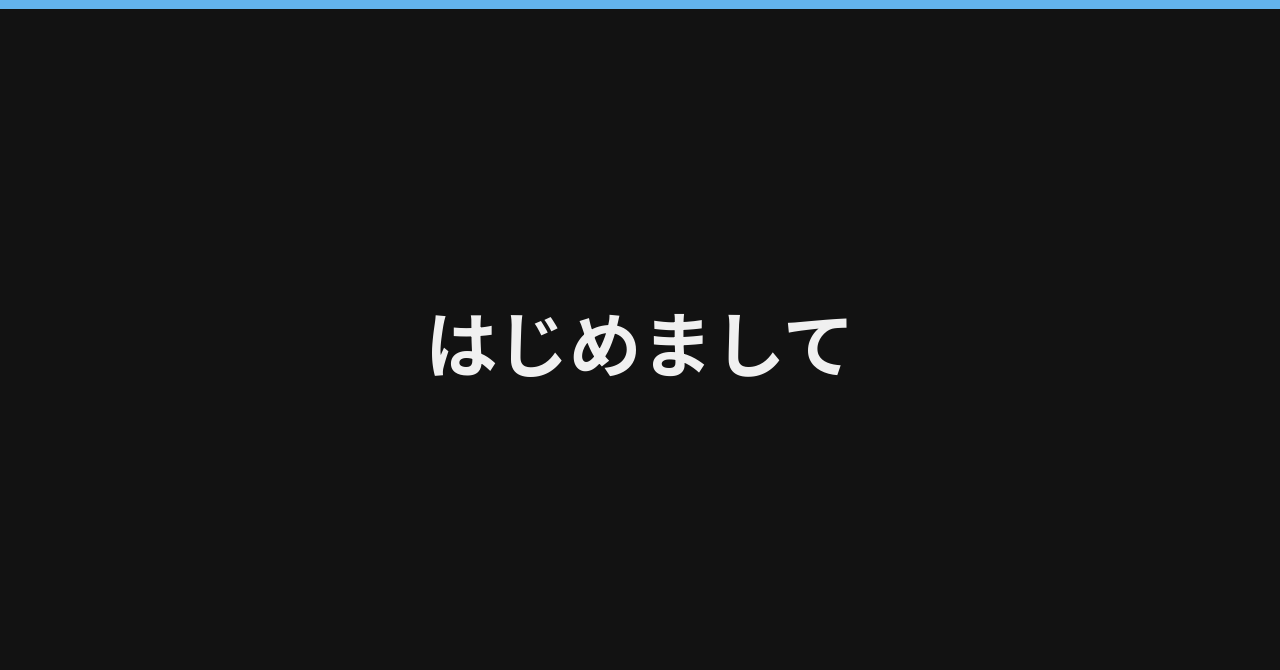
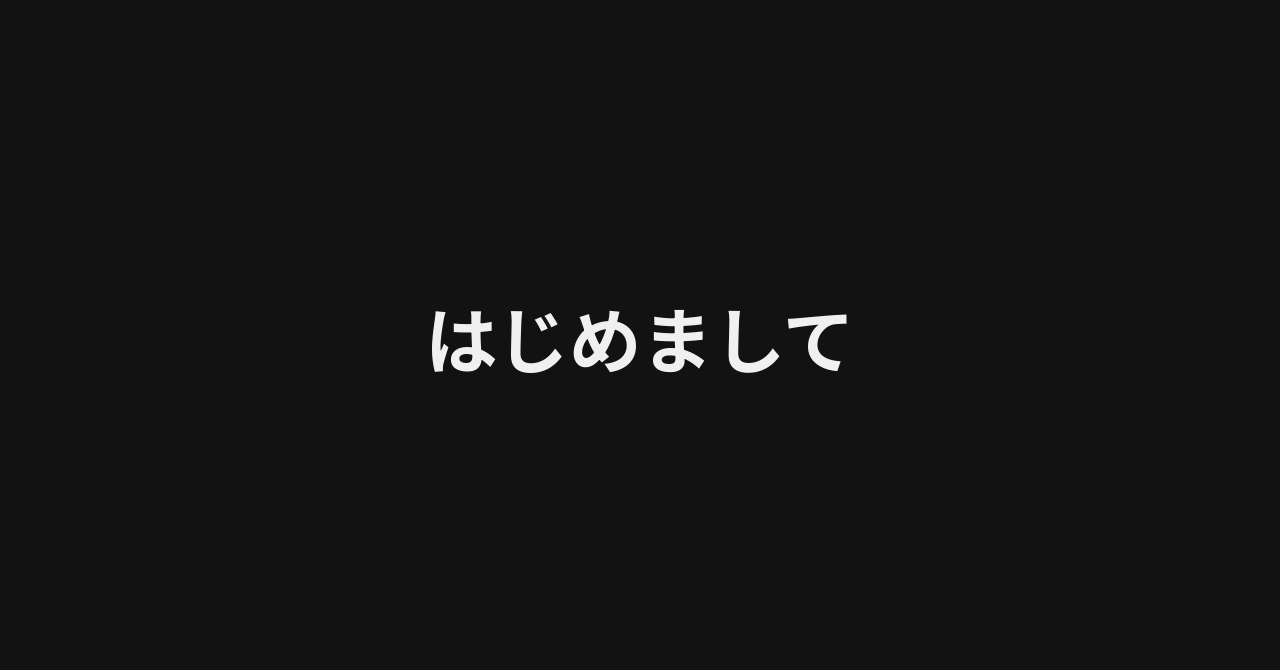
feat: remove accent bar from default and dark templates
Simplify default (white) and dark templates to text-only layout
without the colored accent line at the top.

Changed region(s): [[0.0, 0.0, 1.0, 0.0299], [0.3438, 0.4478, 0.6562, 0.5672]]

diff --git a/templates/default.py b/templates/default.py
@@ -30,8 +30,7 @@ class DefaultTemplate(BaseTemplate):
         author_font = get_font(30, font_weight)
         content_w = self.WIDTH - PADDING * 2
 
-        # Accent bar at top
-        draw.rectangle([(0, 0), (self.WIDTH, ACCENT_H)], fill=ACCENT_COLOR)
+        # Accent bar removed — clean white background only
 
         # Calculate content block height
         title_lines = wrap_text(draw, title, title_font, content_w)
@@ -46,7 +45,7 @@ class DefaultTemplate(BaseTemplate):
         content_block_h = title_block_h + sub_block_h
 
         # Vertically center content block
-        available_top = ACCENT_H + PADDING
+        available_top = PADDING
         available_bottom = self.HEIGHT - (60 if author else PADDING)
         available_h = available_bottom - available_top
         block_y = available_top + max(0, (available_h - content_block_h) // 2)

diff --git a/templates/dark.py b/templates/dark.py
@@ -30,7 +30,6 @@ class DarkTemplate(BaseTemplate):
         author_font = get_font(30, font_weight)
         content_w = self.WIDTH - PADDING * 2
 
-        draw.rectangle([(0, 0), (self.WIDTH, ACCENT_H)], fill=ACCENT_COLOR)
 
         title_lines = wrap_text(draw, title, title_font, content_w)
         title_lh = draw.textbbox((0, 0), "Ag", font=title_font)[3]
@@ -43,7 +42,7 @@ class DarkTemplate(BaseTemplate):
 
         content_block_h = title_block_h + sub_block_h
 
-        available_top = ACCENT_H + PADDING
+        available_top = PADDING
         available_bottom = self.HEIGHT - (60 if author else PADDING)
         available_h = available_bottom - available_top
         block_y = available_top + max(0, (available_h - content_block_h) // 2)
